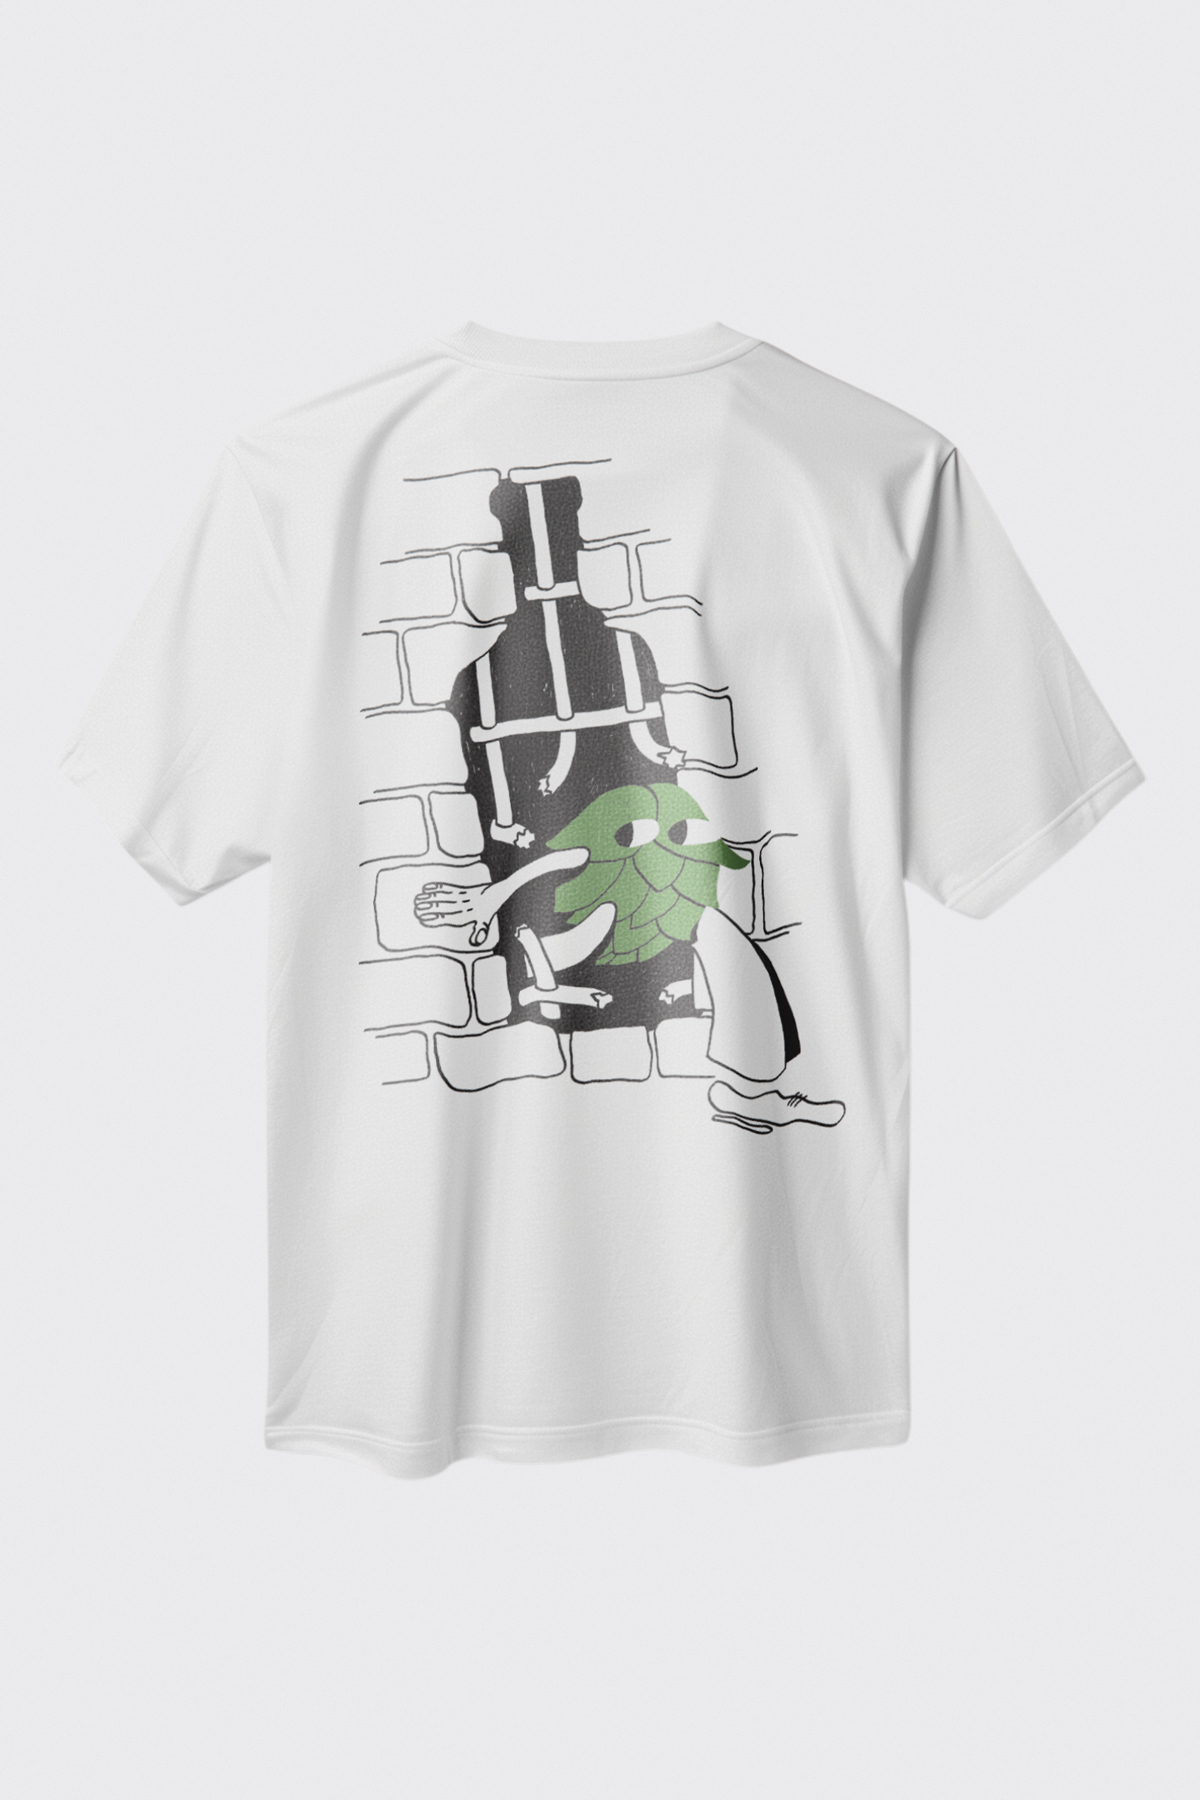
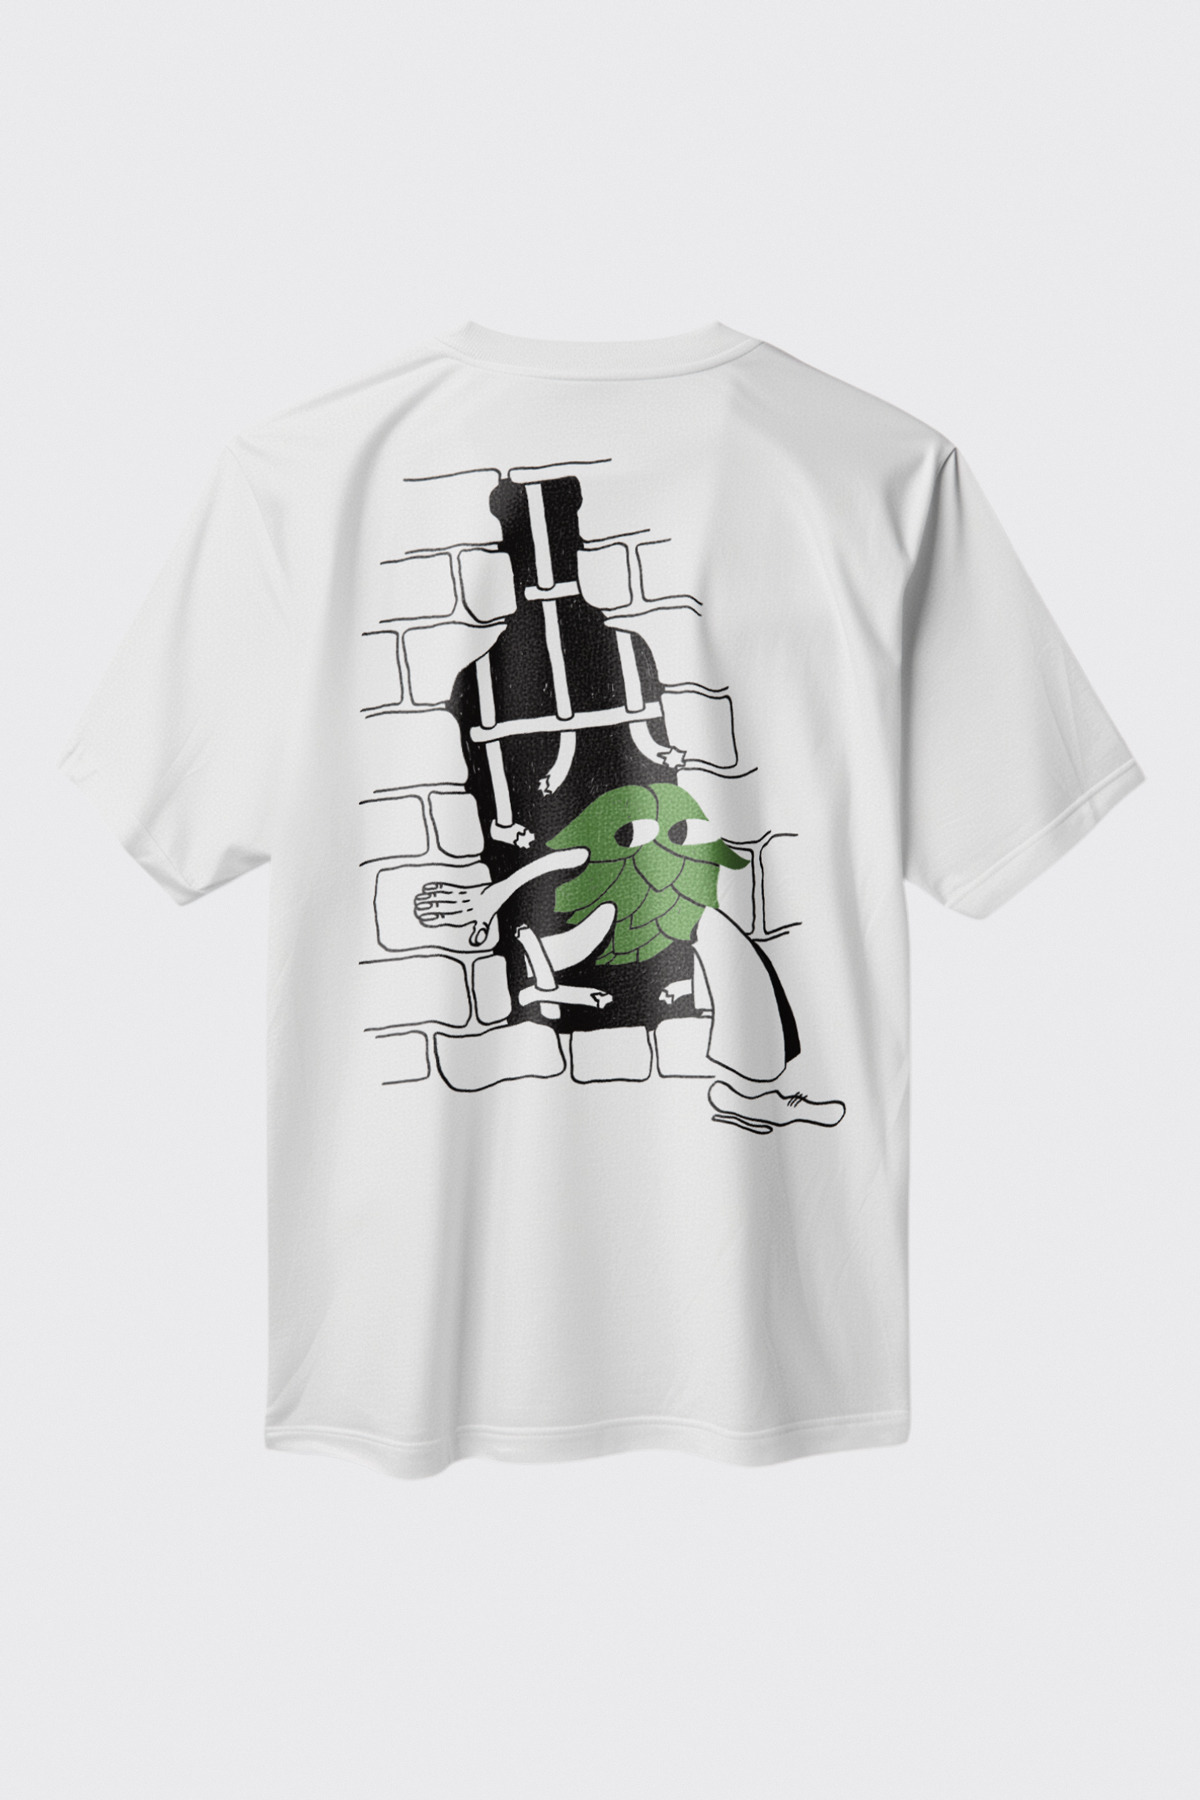
update img 01.3-20.10

Changed region(s): [[0.3083, 0.2489, 0.6167, 0.6222], [0.3392, 0.56, 0.37, 0.5911]]

diff --git a/TEES/JAIL BIANCA.html b/TEES/JAIL BIANCA.html
@@ -222,11 +222,11 @@
                     <!-- Main Slides Container -->
                     <div class="slides">
                         <div class="slide">
-                            <img src="https://raw.githubusercontent.com/tiziole/latorredelluppolo.github.io/refs/heads/main//img/TEES/HOPJAIL/bianca_front.jpg" alt="Slide 1">
+                            <img src="https://raw.githubusercontent.com/tiziole/latorredelluppolo.github.io/refs/heads/main//img/TEES/HOPJAIL/white-back.jpg" alt="Slide 1">
                         </div>
                         
                         <div class="slide">
-                            <img src="https://raw.githubusercontent.com/tiziole/latorredelluppolo.github.io/refs/heads/main//img/TEES/HOPJAIL/bianca_front.jpg" alt="Slide 2">
+                            <img src="https://raw.githubusercontent.com/tiziole/latorredelluppolo.github.io/refs/heads/main//img/TEES/HOPJAIL/white-front.jpg" alt="Slide 2">
                         </div>
                         
                         <div class="slide">
@@ -234,7 +234,7 @@
                         </div>
                         
                         <div class="slide">
-                            <img src="https://raw.githubusercontent.com/tiziole/latorredelluppolo.github.io/refs/heads/main//img/TEES/HOPJAIL/bianca_front.jpg" alt="Slide 4">
+                            <img src="https://raw.githubusercontent.com/tiziole/latorredelluppolo.github.io/refs/heads/main//img/TEES/HOPJAIL/bianca-mod.jpg" alt="Slide 4">
                         </div>
 
                     </div><!-- Main Slides Container -->
